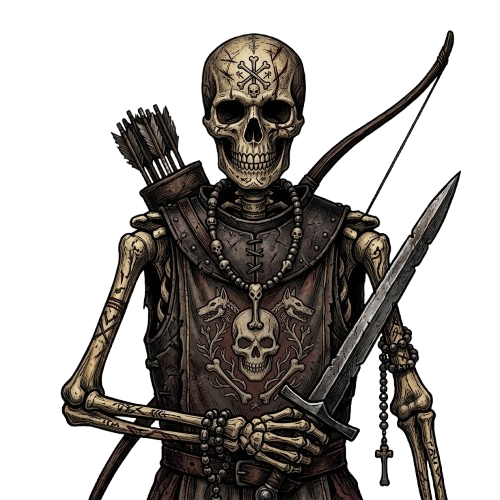
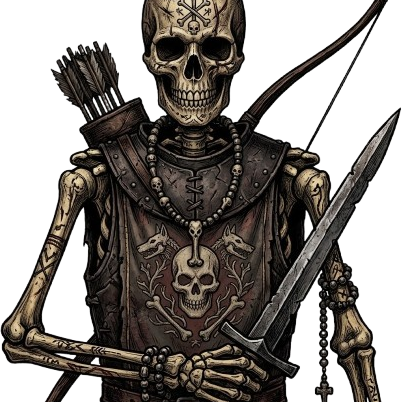
update des visuels 3

diff --git a/app/components/ProjectionStage.vue b/app/components/ProjectionStage.vue
@@ -4,6 +4,14 @@ import type { ProjectionState } from '../composables/useProjection';
 
 const props = defineProps<{ state: ProjectionState }>();
 
+function actorColor(actor: { id: string; name: string; collection: string }): string {
+  let hash = 0;
+  for (const character of `${actor.collection}:${actor.id}:${actor.name}`) {
+    hash = (hash * 31 + character.charCodeAt(0)) >>> 0;
+  }
+  return `hsl(${hash % 360} 62% 62%)`;
+}
+
 const backgroundStyle = computed(() => (props.state.background
   ? { backgroundImage: `url("${props.state.background.image}")` }
   : {}));
@@ -18,7 +26,9 @@ const backgroundStyle = computed(() => (props.state.background
     <div :class="$style.actors">
       <transition-group name="proj-fade">
         <figure v-for="actor in state.actors" :key="actor.id" :class="$style.actor">
-          <img :src="actor.image" :alt="actor.name" :class="$style.portrait">
+          <div :class="$style.portraitBackdrop" :style="{ '--actor-color': actorColor(actor) }">
+            <img :src="actor.image" :alt="actor.name" :class="$style.portrait">
+          </div>
           <figcaption v-if="state.showNames" :class="$style.name">{{ actor.name }}</figcaption>
         </figure>
       </transition-group>
@@ -41,7 +51,8 @@ const backgroundStyle = computed(() => (props.state.background
 .background::after { content: ''; position: absolute; inset: 0; background: linear-gradient(to top, rgba(0, 0, 0, .75), rgba(0, 0, 0, 0) 55%); }
 .actors { position: absolute; inset: auto 0 0 0; display: flex; justify-content: center; align-items: flex-end; gap: 2cqw; padding: 0 3cqw 2cqh; }
 .actor { margin: 0; text-align: center; }
-.portrait { height: 62cqh; max-width: 26cqw; object-fit: contain; filter: drop-shadow(0 0 1.5cqh rgba(0, 0, 0, .9)); }
+.portraitBackdrop { display: inline-flex; align-items: flex-end; line-height: 0; }
+.portrait { display: block; height: 52cqh; max-width: 26cqw; object-fit: contain; filter: drop-shadow(0 0 2cqh var(--actor-color)) drop-shadow(0 0 1.5cqh rgba(0, 0, 0, .95)); }
 .name { margin-top: .5cqh; font-size: 4cqh; letter-spacing: .12em; text-transform: uppercase; color: #f1e6d3; text-shadow: 0 2px 6px #000; }
 .caption { position: absolute; top: 3cqh; left: 50%; transform: translateX(-50%); margin: 0; padding: 1cqh 3cqh; background: rgba(0, 0, 0, .6); border: 1px solid #b3813a; border-radius: 4px; color: #f1e6d3; font-size: 5cqh; white-space: nowrap; }
 .blackout { position: absolute; inset: 0; background: #000; }

diff --git a/scripts/normalize-character-images.py b/scripts/normalize-character-images.py
@@ -1,0 +1,24 @@
+from pathlib import Path
+from PIL import Image
+
+
+TARGET_RATIO = 1, 1
+directories = (Path('public/images/npcs'), Path('public/images/enemies'))
+paths = [path for directory in directories for path in sorted(directory.glob('*.png'))]
+
+for path in paths:
+    image = Image.open(path)
+    alpha = image.getchannel('A') if 'A' in image.getbands() else None
+    bounds = alpha.getbbox() if alpha else image.getbbox()
+    if not bounds:
+        print(f'{path}: image vide, ignoree')
+        continue
+
+    image = image.crop(bounds)
+    width, height = image.size
+    target_width = min(width, round(height * TARGET_RATIO[0] / TARGET_RATIO[1]))
+    target_height = min(height, round(width * TARGET_RATIO[1] / TARGET_RATIO[0]))
+    left = (width - target_width) // 2
+    top = (height - target_height) // 2
+    image.crop((left, top, left + target_width, top + target_height)).save(path, format='PNG', optimize=True)
+    print(path)
